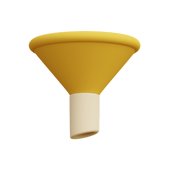
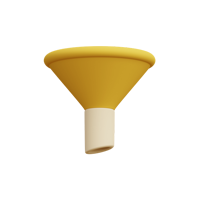
fix

Changed region(s): [[0.1471, 0.1765, 0.8529, 0.8235]]

diff --git a/frontend_mobile/src/components/BuddyHomePage.vue b/frontend_mobile/src/components/BuddyHomePage.vue
@@ -15,14 +15,14 @@
             </div>
         </div>
 
-        <div class="card card-style bg-dark-dark" style="box-shadow: none;">
+        <div class="card card-style" style="box-shadow: none;background: #181818;">
             <div class="content mb-0 mt-3" style="min-height: 80px;">
                 <div class="row mb-0" style="position: relative;min-height: 80px;">
                     <div class="col-9">
                         <h4 class="text-start pt-2 mb-0 color-white">위다이브 컨시어지</h4>
                         <p class="text-start mb-0 color-white opacity-70">전문 매니저가 버디를 매칭해드려요.</p>
                     </div>
-                    <img class="col-3 ps-0" src="/static/images/assets/concierge.png" style="position:absolute;bottom:0;right:0;"/>
+                    <img class="ps-0" src="/static/images/assets/concierge.gif" style="position:absolute;bottom:0;right:0;max-width:90px;width:90px;"/>
                 </div>
             </div>
         </div>
@@ -223,7 +223,7 @@
 
         
         <div data-menu-load="/static/menu-footer.html"></div>
-        <a href="/buddy_create" id="btn_new" class="btn btn-m mb-3 rounded-xl font-900 shadow-s bg-dark-dark icon-concierge"></a>
+        <a href="/buddy_create" id="btn_new" class="btn btn-m mb-3 rounded-xl font-900 shadow-s icon-concierge" style="background-color: #181818;"></a>
     </div>
     
 
@@ -285,6 +285,6 @@ export default {
 
 .movebox {animation: motion-updown 3s linear 0s infinite alternate; margin-top: 0;-webkit-animation: motion-updown 3s linear 0s infinite alternate; margin-top: 0;}
 .chip span {line-height: 24px !important;}
-.icon-concierge {position: fixed;width: 58px;height: 58px;bottom: 70px;right:24px;background-size:cover;background: url(/static/images/assets/concierge.png);background-size:cover !important;background-position-y: 8px;background-repeat: no-repeat;box-shadow: 0 4px 24px 0 rgb(0 0 0 / 45%) !important;}
+.icon-concierge {position: fixed;width: 58px;height: 58px;bottom: 70px;right:24px;background-size:cover;background: url(/static/images/assets/concierge.gif);background-size:cover !important;background-position-y: 8px;background-repeat: no-repeat;box-shadow: 0 4px 24px 0 rgb(0 0 0 / 45%) !important;}
 .position-relative {position: relative;}
 </style>

diff --git a/frontend_mobile/src/components/SiteHomePage.vue b/frontend_mobile/src/components/SiteHomePage.vue
@@ -387,8 +387,8 @@
         </div>
     </div>
 
-    <a id="btn_filter" data-menu="menu-filter" class="btn btn-m mb-3 rounded-xl font-900 shadow-s bg-dark-dark icon-filter"></a>
-    <a href="/buddy_create" id="btn_new" class="btn btn-m mb-3 rounded-xl font-900 shadow-s bg-dark-dark icon-concierge"></a>
+    <a id="btn_filter" data-menu="menu-filter" class="btn btn-m mb-3 rounded-xl font-900 shadow-s icon-filter" style="background-color: #181818;"></a>
+    <a href="/buddy_create" id="btn_new" class="btn btn-m mb-3 rounded-xl font-900 shadow-s icon-concierge" style="background-color: #181818;"></a>
   </div>
 </template>
 <script>
@@ -1346,7 +1346,7 @@ export default {
 .site .wedive-corner-bottom:after {right: 0;bottom: 0;box-shadow: 10px 10px 5px 100px #4b4e52 !important;}
 .point .wedive-corner-bottom:after {right: 0;bottom: 0;box-shadow: 10px 10px 5px 100px #396e78 !important;}
 .center .wedive-corner-bottom:after {right: 0;bottom: 0;box-shadow: 10px 10px 5px 100px #214057 !important;}
-.icon-concierge {position: fixed;width: 58px;height: 58px;bottom: 70px;right:24px;background: url(/static/images/assets/concierge.png);background-size:contain !important;background-position-y: 8px;background-repeat: no-repeat;box-shadow: 0 4px 24px 0 rgb(0 0 0 / 45%) !important;}
+.icon-concierge {position: fixed;width: 58px;height: 58px;bottom: 70px;right:24px;background: url(/static/images/assets/concierge.gif);background-size:contain !important;background-position-y: 8px;background-repeat: no-repeat;box-shadow: 0 4px 24px 0 rgb(0 0 0 / 45%) !important;}
 .icon-filter {position: fixed;width: 58px;height: 58px;bottom: 140px;right:24px;background: url(/static/images/assets/filter2.png);background-size:contain !important;background-position-y: 8px;background-repeat: no-repeat;box-shadow: 0 4px 24px 0 rgb(0 0 0 / 45%) !important;background-position: bottom;}
 .box-bottom {width:calc(100% - 120px);height:36px;position: absolute;right: 0;bottom: 0;display:flex;}
 .box-bottom-corner {display:inline-block;width:36px;height:36px;z-index:999;}

diff --git a/frontend_mobile/src/components/ChatHomePage.vue b/frontend_mobile/src/components/ChatHomePage.vue
@@ -12,8 +12,8 @@
         <p class="color-gray mb-2">진행중인 대화가 없습니다.</p>
     </div>
     <div v-else class="card card-style ms-0 me-0 rounded-0 mb-0" style="min-height:calc(100vh - 101px)">
-        <div class="content">
-            <a v-for="chat in chatData" :href="'/chat/'+chat._id" class="d-block">
+        <div class="content mt-0 mb-0">
+            <a v-for="chat in chatData" :href="'/chat/'+chat._id" class="d-block border-bottom pt-2">
                 <div v-if="chat.chatUsers.length == 2" class="p-relative d-inline-block w-60 mb-2">
                     <div v-for="user in chat.chatUsers.filter(user=>user._id != uid)" class="user-img">
                         <svg class="svg-profile" viewBox="0 0 88 88" preserveAspectRatio="xMidYMid meet">
@@ -23,7 +23,7 @@
                                 <use xlink:href="#shapeSquircle"/>
                             </clipPath>
                             </defs>
-                            <image class="user-photo" width="100%" height="100%" preserveAspectRatio="xMidYMid slice" clip-path="url(#clipSquircle)" :xlink:href="(user.avatarOrigin)?user.avatarOrigin:'/static/empty_user.jpg'"/>
+                            <image class="user-photo" width="100%" height="100%" preserveAspectRatio="xMidYMid slice" clip-path="url(#clipSquircle)" :xlink:href="(user.avatarOrigin)?user.avatarOrigin:'/static/images/assets/chat.gif'"/>
                         </svg>
                     </div>
                 </div>
@@ -103,7 +103,7 @@
                 </div>
                 <div class="latest">{{ chat.showedAt }}</div>
             </a>
-            <div class="divider mb-0"></div>
+            
             
         </div>
     </div>

diff --git a/frontend_mobile/src/components/DivingDetailPage.vue b/frontend_mobile/src/components/DivingDetailPage.vue
@@ -769,6 +769,7 @@ export default {
           var _partis = JSON.parse(JSON.stringify(this.divingData.participants));
           _partis.forEach(_parti => {
               if (_parti.user != null && _parti.user._id) {
+                  delete _parti.levelShow;
                   var _id = _parti.user._id;
                   _parti.user = _id;
               }
@@ -828,6 +829,7 @@ export default {
           var _partis = JSON.parse(JSON.stringify(this.divingData.participants));
           _partis.forEach(_parti => {
               if (_parti.user != null && _parti.user._id) {
+                  delete _parti.levelShow;
                   var _id = _parti.user._id;
                   _parti.user = _id;
               }

diff --git a/frontend_mobile/src/components/SiteHomeListPage.vue b/frontend_mobile/src/components/SiteHomeListPage.vue
@@ -16,7 +16,7 @@
             </div>
         </div>
 
-        <div v-on:click="goSiteMap()" class="card card-style bg-dark-dark" style="box-shadow: none;">
+        <div v-on:click="goSiteMap()" class="card card-style" style="box-shadow: none;background: #181818;">
             <div class="content mb-0 mt-3" style="min-height: 80px;">
                 <div class="row mb-0" style="position: relative;min-height: 80px;">
                     <div class="col-9">
